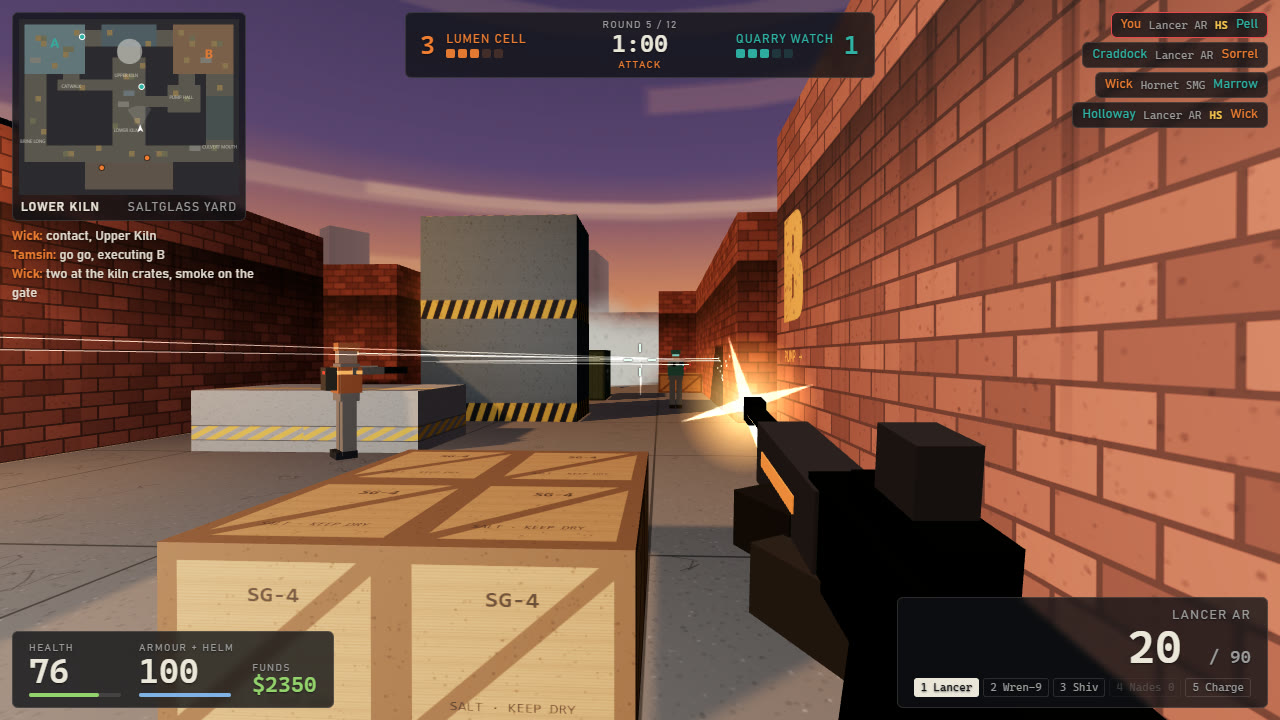
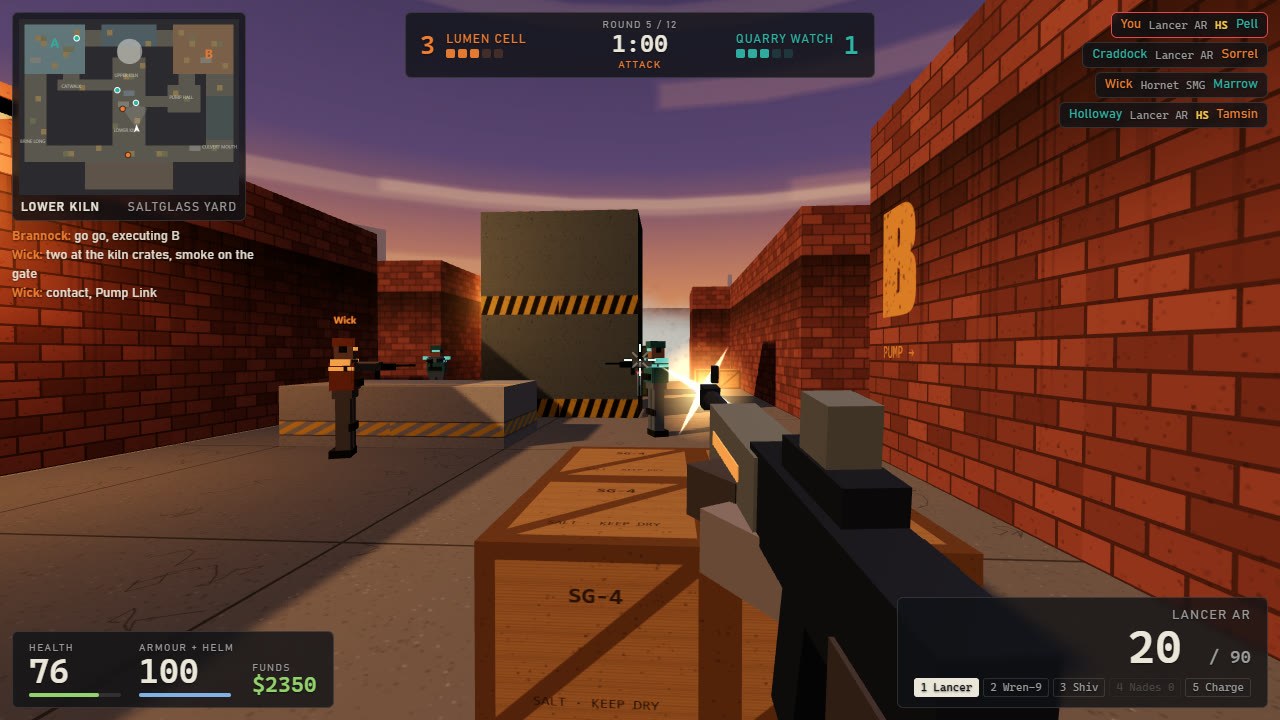
v2: sharper viewmodel and soldiers, hit slowdown, cleaner hot loops
- Rifle viewmodel moved off the near plane, lighter materials, rim light
- Soldiers gain team shoulder pads, pouches, knee pads, headsets, rifles with magazines
- Being hit briefly slows you (tagging)
- No per-step allocations in tactics, HUD slots or the spectator lookup; dead exports removed
- Map builder and lighting read before the render modules; restaged screenshots

diff --git a/game/src/render/viewmodel.js b/game/src/render/viewmodel.js
@@ -9,11 +9,11 @@ import { activeWeapon } from '../sim/combatant.js';
 import { PALETTE } from '../core/palette.js';
 
 const M = {
-  metal: new THREE.MeshStandardMaterial({ color: 0x24262a, roughness: 0.42, metalness: 0.75 }),
-  polymer: new THREE.MeshStandardMaterial({ color: 0x3a3d40, roughness: 0.8 }),
-  tan: new THREE.MeshStandardMaterial({ color: 0x9c8462, roughness: 0.85 }),
-  glove: new THREE.MeshStandardMaterial({ color: 0x23211f, roughness: 0.95 }),
-  sleeve: new THREE.MeshStandardMaterial({ color: 0x3b3833, roughness: 0.95 }),
+  metal: new THREE.MeshStandardMaterial({ color: 0x474d55, roughness: 0.38, metalness: 0.7 }),
+  polymer: new THREE.MeshStandardMaterial({ color: 0x5a5d52, roughness: 0.75 }),
+  tan: new THREE.MeshStandardMaterial({ color: 0xa88f68, roughness: 0.8 }),
+  glove: new THREE.MeshStandardMaterial({ color: 0x3d3731, roughness: 0.95 }),
+  sleeve: new THREE.MeshStandardMaterial({ color: 0x6a6157, roughness: 0.95 }),
   blade: new THREE.MeshStandardMaterial({ color: 0xc9ccd0, roughness: 0.25, metalness: 0.9 }),
   lens: new THREE.MeshStandardMaterial({ color: 0x0d1a22, roughness: 0.1, metalness: 0.4, emissive: 0x0a2830 }),
   frag: new THREE.MeshStandardMaterial({ color: 0x4b5a3c, roughness: 0.7 }),
@@ -85,7 +85,9 @@ const BUILD = {
     g.add(box(0.044, 0.05, 0.07, M.polymer, 0, 0.11, -0.12));      // optic body
     g.add(box(0.03, 0.03, 0.01, M.lens, 0, 0.115, -0.158));
     g.add(box(0.045, 0.11, 0.05, M.polymer, 0, -0.09, 0.03));      // grip
-    g.add(box(0.05, 0.09, 0.26, M.polymer, 0, -0.01, 0.26));       // stock
+    g.add(box(0.05, 0.08, 0.14, M.polymer, 0, -0.01, 0.2));        // stock
+    g.add(box(0.012, 0.03, 0.012, M.metal, 0, 0.062, -0.74));      // front sight post
+    g.add(box(0.03, 0.012, 0.05, M.metal, 0.034, 0.03, -0.04));    // charging handle
     g.add(box(0.074, 0.02, 0.18, accent, 0, 0.0, -0.44));
     const mag = box(0.04, 0.17, 0.07, M.metal, 0, -0.13, -0.18); mag.rotation.x = 0.22; g.add(mag);
     return { group: g, muzzle: -0.82, mag };
@@ -98,7 +100,7 @@ const BUILD = {
     g.add(tube(0.034, 0.3, M.metal, 0, 0.1, -0.12));               // scope tube
     g.add(tube(0.042, 0.05, M.metal, 0, 0.1, -0.28));
     g.add(tube(0.04, 0.05, M.metal, 0, 0.1, 0.03));
-    g.add(box(0.05, 0.12, 0.3, M.tan, 0, -0.04, 0.3));
+    g.add(box(0.05, 0.12, 0.18, M.tan, 0, -0.04, 0.22));
     g.add(box(0.064, 0.02, 0.2, accent, 0, -0.02, -0.18));
     const mag = box(0.04, 0.08, 0.08, M.metal, 0, -0.09, -0.06); g.add(mag);
     return { group: g, muzzle: -0.87, mag };
@@ -130,10 +132,13 @@ const BUILD = {
 export function createViewmodel(width, height, tex) {
   const scene = new THREE.Scene();
   const camera = new THREE.PerspectiveCamera(58, width / height, 0.01, 10);
-  scene.add(new THREE.HemisphereLight(0xc7c0e0, 0x403028, 1.4));
-  const key = new THREE.DirectionalLight(0xffc89a, 2.2);
+  scene.add(new THREE.HemisphereLight(0xd6cfee, 0x5a4636, 2.1));
+  const key = new THREE.DirectionalLight(0xffc89a, 3.2);
   key.position.set(-1, 1.5, 1);
   scene.add(key);
+  const rim = new THREE.DirectionalLight(0x9fb8ff, 1.4);
+  rim.position.set(1.5, 0.6, -1);
+  scene.add(rim);
   const flashLight = new THREE.PointLight(0xffb060, 0, 3, 2);
   scene.add(flashLight);
 
@@ -200,10 +205,10 @@ export function createViewmodel(width, height, tex) {
     anim.swing = Math.max(0, anim.swing - dt * 3.5);
     anim.throwT = Math.max(0, anim.throwT - dt * 2.4);
 
-    let x = 0.2 + Math.cos(anim.bob) * 0.012 * bobAmp + anim.swayX;
-    let y = -0.2 + Math.abs(Math.sin(anim.bob)) * -0.016 * bobAmp + anim.swayY - (actor.onGround ? 0 : 0.02);
-    let z = -0.42 + anim.kick * 0.05;
-    let rx = anim.kick * 0.09, ry = 0, rz = 0;
+    let x = 0.17 + Math.cos(anim.bob) * 0.012 * bobAmp + anim.swayX;
+    let y = -0.18 + Math.abs(Math.sin(anim.bob)) * -0.016 * bobAmp + anim.swayY - (actor.onGround ? 0 : 0.02);
+    let z = -0.5 + anim.kick * 0.05;
+    let rx = anim.kick * 0.09, ry = 0.05, rz = 0;
     if (actor.drawTimer > 0) { y -= actor.drawTimer * 0.5; rx -= actor.drawTimer * 0.9; }
     // Reload: tilt the gun, drop the magazine, seat a new one.
     model.mag.position.y = model.mag.userData.baseY ?? (model.mag.userData.baseY = model.mag.position.y);

diff --git a/game/src/shots.js b/game/src/shots.js
@@ -59,18 +59,18 @@ const SCENES = {
     earlierKill(game, find(state, 'Pell'), me, 'lancer', true, 20.6, 11.2);
     earlierKill(game, find(state, 'Sorrel'), craddock, 'lancer', false, 21.5, 17.4);
     earlierKill(game, find(state, 'Marrow'), wick, 'hornet', false, 18.2, 7.6);
-    me.alive = false; // off the field while the scene settles
-    me.armor = 100; me.helmet = true; me.hp = 76; me.money = 2350;
-    arm(me, 'lancer', 23);
-    put(wick, 18.4, 16.2); wick.crouching = true; wick.crouch = 1;
-    arm(wick, 'hornet');
-    put(holloway, 21.4, 11.8, Math.PI); arm(holloway, 'lancer');
-    put(craddock, 18.0, 9.6, Math.PI); arm(craddock, 'lancer');
+    earlierKill(game, find(state, 'Tamsin'), holloway, 'lancer', true, 29.5, 13.2);
+    // The fighters stand aside while the smoke blooms, so nothing fires before the moment.
+    const cast = [me, wick, holloway, craddock];
+    for (const a of cast) a.alive = false;
     game.grenades.spawn('smoke', craddock, cellX(19.6), 0.3, cellZ(5.4), 0, 0, 0);
-    for (let i = 0; i < 200; i++) game.simulate(1 / 60, true); // the smoke blooms; the bots take their angles
-    put(me, 21.55, 19.45);
+    for (let i = 0; i < 200; i++) game.simulate(1 / 60, true);
+    me.armor = 100; me.helmet = true; me.hp = 76; me.money = 2350;
+    put(me, 20.9, 19.45); arm(me, 'lancer', 23);
+    put(wick, 18.4, 16.2); wick.crouching = true; wick.crouch = 1; arm(wick, 'hornet');
+    put(holloway, 20.6, 14.6, Math.PI); arm(holloway, 'lancer');
+    put(craddock, 17.6, 12.4, Math.PI); arm(craddock, 'lancer');
     aimAt(me, holloway, 1.25);
-    put(holloway, 21.4, 11.8, Math.PI);
     me.triggerHeld = true;
     me.walking = true;
     game.hud.radio(wick, 'two at the kiln crates, smoke on the gate');
@@ -100,19 +100,19 @@ const SCENES = {
     state.phase = 'live'; state.liveTime = 70;
     const me = state.player, tamsin = find(state, 'Tamsin'), isolde = find(state, 'Isolde'), holloway = find(state, 'Holloway');
     for (const a of state.actors) a.hasCharge = false;
-    put(isolde, 34, 6.3);
+    put(isolde, 33.2, 5.2);
     charge.give(isolde);
     isolde.wantUse = true;
     for (let i = 0; i < 200 && state.charge.phase !== 'planted'; i++) { isolde.wantUse = true; charge.update(1 / 60); }
-    earlierKill(game, isolde, tamsin, 'lancer', true, 35.2, 7.1);
+    earlierKill(game, isolde, tamsin, 'lancer', true, 34.6, 3.4);
     earlierKill(game, holloway, me, 'vigil', false, 30.4, 9.6);
-    put(me, 34.2, 5.6);
+    put(me, 32.8, 5.9);
     me.kit = true; me.armor = 64; me.helmet = true; me.hp = 58; me.money = 1100;
     arm(me, 'lancer', 11);
-    put(tamsin, 31.5, 4.8, -0.9); arm(tamsin, 'lancer');
-    game.grenades.spawn('smoke', tamsin, cellX(33.4), 0.3, cellZ(9.6), 0, 0, 0);
+    put(tamsin, 30.8, 3.6, -0.9); arm(tamsin, 'lancer');
+    game.grenades.spawn('smoke', tamsin, cellX(36.2), 0.3, cellZ(3.2), 0, 0, 0);
     me.crouching = true; me.crouch = 1;
-    me.yaw = 2.86; me.pitch = -0.36;
+    me.yaw = -0.62; me.pitch = -0.3;
     for (let i = 0; i < 170; i++) {
       me.wantUse = true; me.crouching = true;
       game.simulate(1 / 60, true);
@@ -130,7 +130,7 @@ const SCENES = {
       [find(state, 'Holloway'), 9, 3, 7, 1080, 1], [find(state, 'Pell'), 6, 4, 8, 820, 0], [find(state, 'Isolde'), 5, 2, 8, 700, 0], [find(state, 'Marrow'), 3, 4, 9, 520, 0]];
     for (const [a, k, as, d, dmg, mvp] of tally) Object.assign(a.stats, { kills: k, assists: as, deaths: d, damage: dmg, mvps: mvp });
     state.phase = 'live'; state.liveTime = 50; state.clock = 38;
-    put(me, 6.2, 6.4, 0.6); arm(me, 'lancer', 17);
+    put(me, 6.2, 6.4, -2.3); arm(me, 'lancer', 17);
     for (const name of ['Pell', 'Isolde', 'Marrow']) earlierKill(game, find(state, name), me, 'lancer', name !== 'Marrow', 7 + name.length * 0.4, 8 - name.length * 0.3);
     earlierKill(game, find(state, 'Craddock'), find(state, 'Wick'), 'hornet', false, 9.5, 3.5);
     earlierKill(game, find(state, 'Holloway'), find(state, 'Brannock'), 'lancer', true, 3.2, 9.1);

diff --git a/game/src/render/soldiers.js b/game/src/render/soldiers.js
@@ -21,7 +21,13 @@ const GEO = {
   helmet: new THREE.BoxGeometry(0.29, 0.13, 0.31).translate(0, 0.13, -0.01),
   visor: new THREE.BoxGeometry(0.22, 0.06, 0.03).translate(0, 0.03, -0.14),
   arm: new THREE.BoxGeometry(0.12, 0.12, 0.5).translate(0, 0, -0.22),
-  gun: new THREE.BoxGeometry(0.07, 0.11, 0.78).translate(0, 0, -0.42),
+  gun: new THREE.BoxGeometry(0.07, 0.11, 0.56).translate(0, 0, -0.34),
+  barrel: new THREE.BoxGeometry(0.035, 0.035, 0.3).translate(0, 0.02, -0.76),
+  mag: new THREE.BoxGeometry(0.05, 0.16, 0.07).translate(0, -0.12, -0.36),
+  pad: new THREE.BoxGeometry(0.16, 0.1, 0.24),
+  pouch: new THREE.BoxGeometry(0.11, 0.12, 0.07),
+  knee: new THREE.BoxGeometry(0.19, 0.12, 0.06).translate(0, -0.45, -0.11),
+  ear: new THREE.BoxGeometry(0.05, 0.1, 0.1),
   pack: new THREE.BoxGeometry(0.34, 0.36, 0.16),
   lamp: new THREE.BoxGeometry(0.08, 0.05, 0.02),
 };
@@ -48,21 +54,32 @@ function buildSoldier(actor, mats) {
   for (const leg of [legL, legR]) {
     leg.add(new THREE.Mesh(GEO.leg, mats.fatigue));
     leg.add(new THREE.Mesh(GEO.boot, mats.dark));
+    leg.add(new THREE.Mesh(GEO.knee, mats.dark));
   }
   const chest = new THREE.Group(); hips.add(chest);
   chest.add(new THREE.Mesh(GEO.torso, mats.fatigue));
   chest.add(new THREE.Mesh(GEO.vest, mats.vest));
   chest.add(new THREE.Mesh(GEO.stripe, mats.accent));
+  for (const side of [-1, 1]) {
+    const pad = new THREE.Mesh(GEO.pad, mats.accent); pad.position.set(side * 0.29, 0.56, 0); chest.add(pad);
+  }
+  for (const x of [-0.13, 0, 0.13]) {
+    const pouch = new THREE.Mesh(GEO.pouch, mats.dark); pouch.position.set(x, 0.24, -0.19); chest.add(pouch);
+  }
   const pack = new THREE.Mesh(GEO.pack, mats.charge); pack.position.set(0, 0.36, 0.24); chest.add(pack);
   const packLamp = new THREE.Mesh(GEO.lamp, mats.chargeLamp); packLamp.position.set(0.08, 0.46, 0.33); chest.add(packLamp);
   const head = new THREE.Group(); head.position.y = 0.74; chest.add(head);
   head.add(new THREE.Mesh(GEO.head, mats.skin));
   head.add(new THREE.Mesh(GEO.helmet, mats.vest));
   head.add(new THREE.Mesh(GEO.visor, mats.accent));
+  for (const side of [-1, 1]) {
+    const ear = new THREE.Mesh(GEO.ear, mats.dark); ear.position.set(side * 0.14, 0.02, 0); head.add(ear);
+  }
   const arms = new THREE.Group(); arms.position.set(0, 0.5, -0.05); chest.add(arms);
   const armL = new THREE.Mesh(GEO.arm, mats.fatigue); armL.position.set(-0.2, 0, 0); armL.rotation.y = -0.35; arms.add(armL);
   const armR = new THREE.Mesh(GEO.arm, mats.fatigue); armR.position.set(0.2, -0.02, 0); armR.rotation.y = 0.2; arms.add(armR);
-  const gun = new THREE.Mesh(GEO.gun, mats.gun); gun.position.set(0.06, -0.02, -0.05); arms.add(gun);
+  const gun = new THREE.Group(); gun.position.set(0.06, -0.02, -0.05); arms.add(gun);
+  gun.add(new THREE.Mesh(GEO.gun, mats.gun), new THREE.Mesh(GEO.barrel, mats.gun), new THREE.Mesh(GEO.mag, mats.gun));
   root.traverse((o) => { if (o.isMesh) { o.castShadow = true; } });
 
   let tag = null;

diff --git a/game/src/ui/hud.js b/game/src/ui/hud.js
@@ -100,16 +100,12 @@ export function createHud(state, round) {
     set(el.mag, 'mg', mag);
     set(el.reserve, 'rs', reserve);
     el.ammo.classList.toggle('low', !!w && !w.def.melee && w.mag <= Math.ceil((w.def.mag ?? 0) * 0.25) && p.active < SLOT.GRENADE);
-    const labels = [
-      p.slots[SLOT.PRIMARY] ? `1 ${p.slots[SLOT.PRIMARY].def.name.split(' ')[0]}` : '1 —',
-      p.slots[SLOT.SIDEARM] ? `2 ${p.slots[SLOT.SIDEARM].def.name.split(' ')[0]}` : '2 —',
-      '3 Shiv', `4 Nades ${p.grenades.frag + p.grenades.smoke + p.grenades.flash}`, p.hasCharge ? '5 Charge' : '5 —',
-    ];
-    for (let i = 0; i < 5; i++) {
-      set(el.slots[i], `sl${i}`, labels[i]);
-      const owned = i === 2 || (i === 3 ? labels[3].slice(-1) !== '0' : i === 4 ? p.hasCharge : !!p.slots[i + 1]);
-      set(el.slots[i], `slc${i}`, `${p.active === i + 1 ? 'on' : ''} ${owned ? '' : 'empty'}`, 'className');
-    }
+    const nades = p.grenades.frag + p.grenades.smoke + p.grenades.flash;
+    slot(0, p.slots[SLOT.PRIMARY] ? `1 ${p.slots[SLOT.PRIMARY].def.name.split(' ')[0]}` : '1 —', !!p.slots[SLOT.PRIMARY]);
+    slot(1, p.slots[SLOT.SIDEARM] ? `2 ${p.slots[SLOT.SIDEARM].def.name.split(' ')[0]}` : '2 —', !!p.slots[SLOT.SIDEARM]);
+    slot(2, '3 Shiv', true);
+    slot(3, `4 Nades ${nades}`, nades > 0);
+    slot(4, p.hasCharge ? '5 Charge' : '5 —', p.hasCharge);
 
     // Crosshair gap: the real cone projected to pixels, plus a floor so it never closes.
     const cone = inaccuracy(p);
@@ -133,10 +129,17 @@ export function createHud(state, round) {
     if (bannerUntil && state.time > bannerUntil) { el.banner.classList.add('hidden'); bannerUntil = 0; }
   }
 
+  function slot(i, label, owned) {
+    set(el.slots[i], slotKeys[i], label);
+    set(el.slots[i], slotClassKeys[i], state.player.active === i + 1 ? 'on' : owned ? '' : 'empty', 'className');
+  }
+  const slotKeys = ['sl0', 'sl1', 'sl2', 'sl3', 'sl4'];
+  const slotClassKeys = ['sc0', 'sc1', 'sc2', 'sc3', 'sc4'];
+
   function pips(node, alive, key) {
     if (last.get(key) === alive) return;
     last.set(key, alive);
-    [...node.children].forEach((pip, i) => pip.classList.toggle('dead', i >= alive));
+    for (let i = 0; i < node.children.length; i++) node.children[i].classList.toggle('dead', i >= alive);
   }
 
   function updatePrompt(p) {

diff --git a/game/src/ai/tactics.js b/game/src/ai/tactics.js
@@ -102,11 +102,16 @@ export function createTactics(state, events, round) {
   function update(intel) {
     if (state.phase !== 'live') return;
     if (!plans.executing && plans.attack) {
-      const main = bots('atk').filter((b) => b.brain.role !== 'lurk');
-      const gathered = main.length > 0 && main.every((b) => b.brain.waiting);
-      if (gathered || state.liveTime > plans.execAt) {
+      // Execute once every living non-lurker is waiting at the stage point, or on the clock.
+      let caller = null, gathered = true;
+      for (const b of state.actors) {
+        if (!b.brain || !b.alive || state.sideOf(b) !== 'atk' || b.brain.role === 'lurk') continue;
+        caller ??= b;
+        if (!b.brain.waiting) { gathered = false; break; }
+      }
+      if ((caller && gathered) || state.liveTime > plans.execAt) {
         plans.executing = true;
-        events.emit('radio', { from: main[0] ?? null, text: `go go, executing ${plans.attack.site}`, side: 'atk' });
+        events.emit('radio', { from: caller, text: `go go, executing ${plans.attack.site}` });
       }
     }
     // Defenders rotate once toward a site where the team has called two or more contacts.
@@ -124,7 +129,7 @@ export function createTactics(state, events, round) {
           bot.brain.role = info.site;
         }
       }
-      events.emit('radio', { from: bots('def')[0] ?? null, text: `rotating ${info.site}`, side: 'def' });
+      events.emit('radio', { from: bots('def')[0] ?? null, text: `rotating ${info.site}` });
     }
   }
 

diff --git a/game/src/sim/mover.js b/game/src/sim/mover.js
@@ -10,13 +10,10 @@ import { heightAt, toCol, toRow, HALF_W, HALF_D } from '../world/grid.js';
 export function eyeHeight(body) {
   return BODY.standEye + (BODY.crouchEye - BODY.standEye) * body.crouch;
 }
-export function bodyHeight(body) {
-  return BODY.standHeight + (BODY.crouchHeight - BODY.standHeight) * body.crouch;
-}
 
-/** The top speed the body may reach this step given its weapon and stance. */
+/** The top speed the body may reach this step given its weapon, stance and any fresh hit. */
 export function maxSpeed(body, weaponSpeed) {
-  let speed = MOVE.runSpeed * weaponSpeed;
+  let speed = MOVE.runSpeed * weaponSpeed * (body.tagged > 0 ? MOVE.taggedScale : 1);
   if (body.crouch > 0.5) speed *= MOVE.crouchScale;
   else if (body.walking) speed *= MOVE.walkScale;
   return speed;
@@ -28,6 +25,7 @@ export function maxSpeed(body, weaponSpeed) {
  */
 export function stepBody(body, wishX, wishZ, wishSpeed, jump, dt) {
   // Crouch blends over ~0.12 s; uncrouching is never blocked (the culvert roof is above head).
+  body.tagged = Math.max(0, body.tagged - dt);
   const crouchTarget = body.crouching ? 1 : 0;
   body.crouch += Math.sign(crouchTarget - body.crouch) * Math.min(Math.abs(crouchTarget - body.crouch), dt * 8);
 

diff --git a/game/src/sim/combatant.js b/game/src/sim/combatant.js
@@ -2,7 +2,7 @@
 // money, inventory and weapon-handling state. Damage, death and loadouts are applied here so the
 // player and the bots obey exactly the same rules.
 import { BODY } from '../core/config.js';
-import { WEAPONS, GRENADES, SLOT } from '../data/weapons.js';
+import { WEAPONS, SLOT } from '../data/weapons.js';
 
 export function createCombatant(id, name, team, isPlayer) {
   return {
@@ -22,7 +22,7 @@ export function createCombatant(id, name, team, isPlayer) {
     fireCooldown: 0, reloadTimer: 0, drawTimer: 0, triggerHeld: false, triggerWasHeld: false,
     sprayCount: 0, spray: 0, punchPitch: 0, punchYaw: 0, scope: 0, throwCooldown: 0,
     // feedback
-    flash: 0, hurtTime: -10, hurtYaw: 0, stepDistance: 0, lastShotTime: -10,
+    flash: 0, hurtTime: -10, hurtYaw: 0, tagged: 0, stepDistance: 0, lastShotTime: -10,
     // stats for the scoreboard
     stats: { kills: 0, deaths: 0, assists: 0, damage: 0, roundKills: 0, mvps: 0 },
     damageBy: new Map(), // attacker id -> damage this life (assists)
@@ -142,5 +142,3 @@ export function hitZones(actor, out) {
   out.legR = 0.2;
   return out;
 }
-
-export { GRENADES };

diff --git a/game/src/main.js b/game/src/main.js
@@ -34,11 +34,11 @@ import { createHud } from './ui/hud.js';
 import { createMinimap } from './ui/minimap.js';
 import { createBuyMenu, createScoreboard } from './ui/menus.js';
 import { PALETTE } from './core/palette.js';
+import { buildWorld, buildLighting } from './world/builder.js';
+import { createTextures } from './world/textures.js';
 import { createSoldiers } from './render/soldiers.js';
 import { createViewmodel } from './render/viewmodel.js';
 import { createEffects } from './render/effects.js';
-import { buildWorld, buildLighting } from './world/builder.js';
-import { createTextures } from './world/textures.js';
 import { createSound } from './audio/sound.js';
 
 const params = new URLSearchParams(location.search);
@@ -257,7 +257,8 @@ let minimapIn = 0;
 function viewTarget() {
   const p = state.player;
   if (p.alive || state.phase === 'freeze') return p;
-  return state.actors.find((a) => a.alive && a.team === p.team) ?? p;
+  for (const a of state.actors) if (a.alive && a.team === p.team) return a;
+  return p;
 }
 
 // Behind the title screen: a slow pan across the pans and the kiln at dusk.

diff --git a/game/src/sim/arms.js b/game/src/sim/arms.js
@@ -5,7 +5,7 @@
 import { MOVE } from '../core/config.js';
 import { SLOT } from '../data/weapons.js';
 import { activeWeapon, applyDamage, bestSlot, cycleGrenade, grenadeCount } from './combatant.js';
-import { traceShot, zoneMultiplier, shotHit } from './ballistics.js';
+import { traceShot, zoneMultiplier } from './ballistics.js';
 import { eyeHeight } from './mover.js';
 
 const RECOIL_RECOVER = 9;    // how fast the view punch settles once the trigger is released
@@ -154,6 +154,7 @@ function hitTarget(attacker, target, def, zone, dist, ctx) {
   const amount = def.damage * falloff * zoneMultiplier(zone, def.headMult);
   const dealt = applyDamage(target, amount, zone, def.armorPen, attacker);
   target.hurtTime = ctx.state.time;
+  target.tagged = MOVE.taggedTime;
   ctx.events.emit('damage', { attacker, target, zone, dealt });
   if (target.hp <= 0) ctx.kill(target, attacker, def, zone === 'head');
 }
@@ -192,5 +193,3 @@ export function throwGrenade(actor, kind, yaw, pitch, ctx) {
   }
   return true;
 }
-
-export { shotHit };

diff --git a/game/src/world/builder.js b/game/src/world/builder.js
@@ -125,7 +125,7 @@ function addSigns(scene) {
 function addSiteMarks(scene) {
   for (const [site, cell] of Object.entries(PLANT_SPOTS)) {
     const color = site === 'A' ? PALETTE.watch : PALETTE.cell;
-    const mat = new THREE.MeshStandardMaterial({ map: signTexture(site, 'CHARGE ZONE', color), transparent: true, roughness: 1, polygonOffset: true, polygonOffsetFactor: -4, depthWrite: false });
+    const mat = new THREE.MeshStandardMaterial({ map: signTexture(site, 'CHARGE ZONE', color), transparent: true, opacity: 0.55, roughness: 1, polygonOffset: true, polygonOffsetFactor: -4, depthWrite: false });
     const mark = new THREE.Mesh(new THREE.PlaneGeometry(5, 5), mat);
     mark.rotation.x = -Math.PI / 2;
     mark.position.set(cellX(cell[0]), 0.015, cellZ(cell[1]));

diff --git a/game/src/sim/round.js b/game/src/sim/round.js
@@ -2,7 +2,7 @@
 // detonating or being defused, or by the clock running out on the attackers; money for kills,
 // wins and losses (with a growing loss bonus); first to 7 of 12, sides swap at the half.
 import { ROUND, ECONOMY } from '../core/config.js';
-import { SLOT, WEAPONS, GRENADES, GEAR } from '../data/weapons.js';
+import { WEAPONS, GRENADES, GEAR } from '../data/weapons.js';
 import { cellX, cellZ, inSpawn } from '../world/grid.js';
 import { spawnAt, giveWeapon } from './combatant.js';
 
@@ -208,5 +208,5 @@ export function createRound(state, events, charge, grenades) {
     return true;
   }
 
-  return { startMatch, update, buy, quote, canBuy, aliveOn, SLOT };
+  return { startMatch, update, buy, quote, canBuy };
 }

diff --git a/game/index.html b/game/index.html
@@ -134,7 +134,7 @@
   .item.poor { opacity: 0.38; }
   #buy footer { margin-top: 12px; color: var(--muted); font-size: 12px; }
 
-  #board { place-items: end center; padding-bottom: 36px; }
+  #board { place-items: end center; padding-bottom: 36px; background: rgba(10, 10, 14, 0.28); }
   #board .card { max-width: 760px; }
   #board table { width: 100%; border-collapse: collapse; font-size: 14px; margin-bottom: 14px; }
   #board th { text-align: right; font-size: 10px; letter-spacing: 0.14em; color: var(--muted); font-weight: 500; padding: 4px 8px; }
